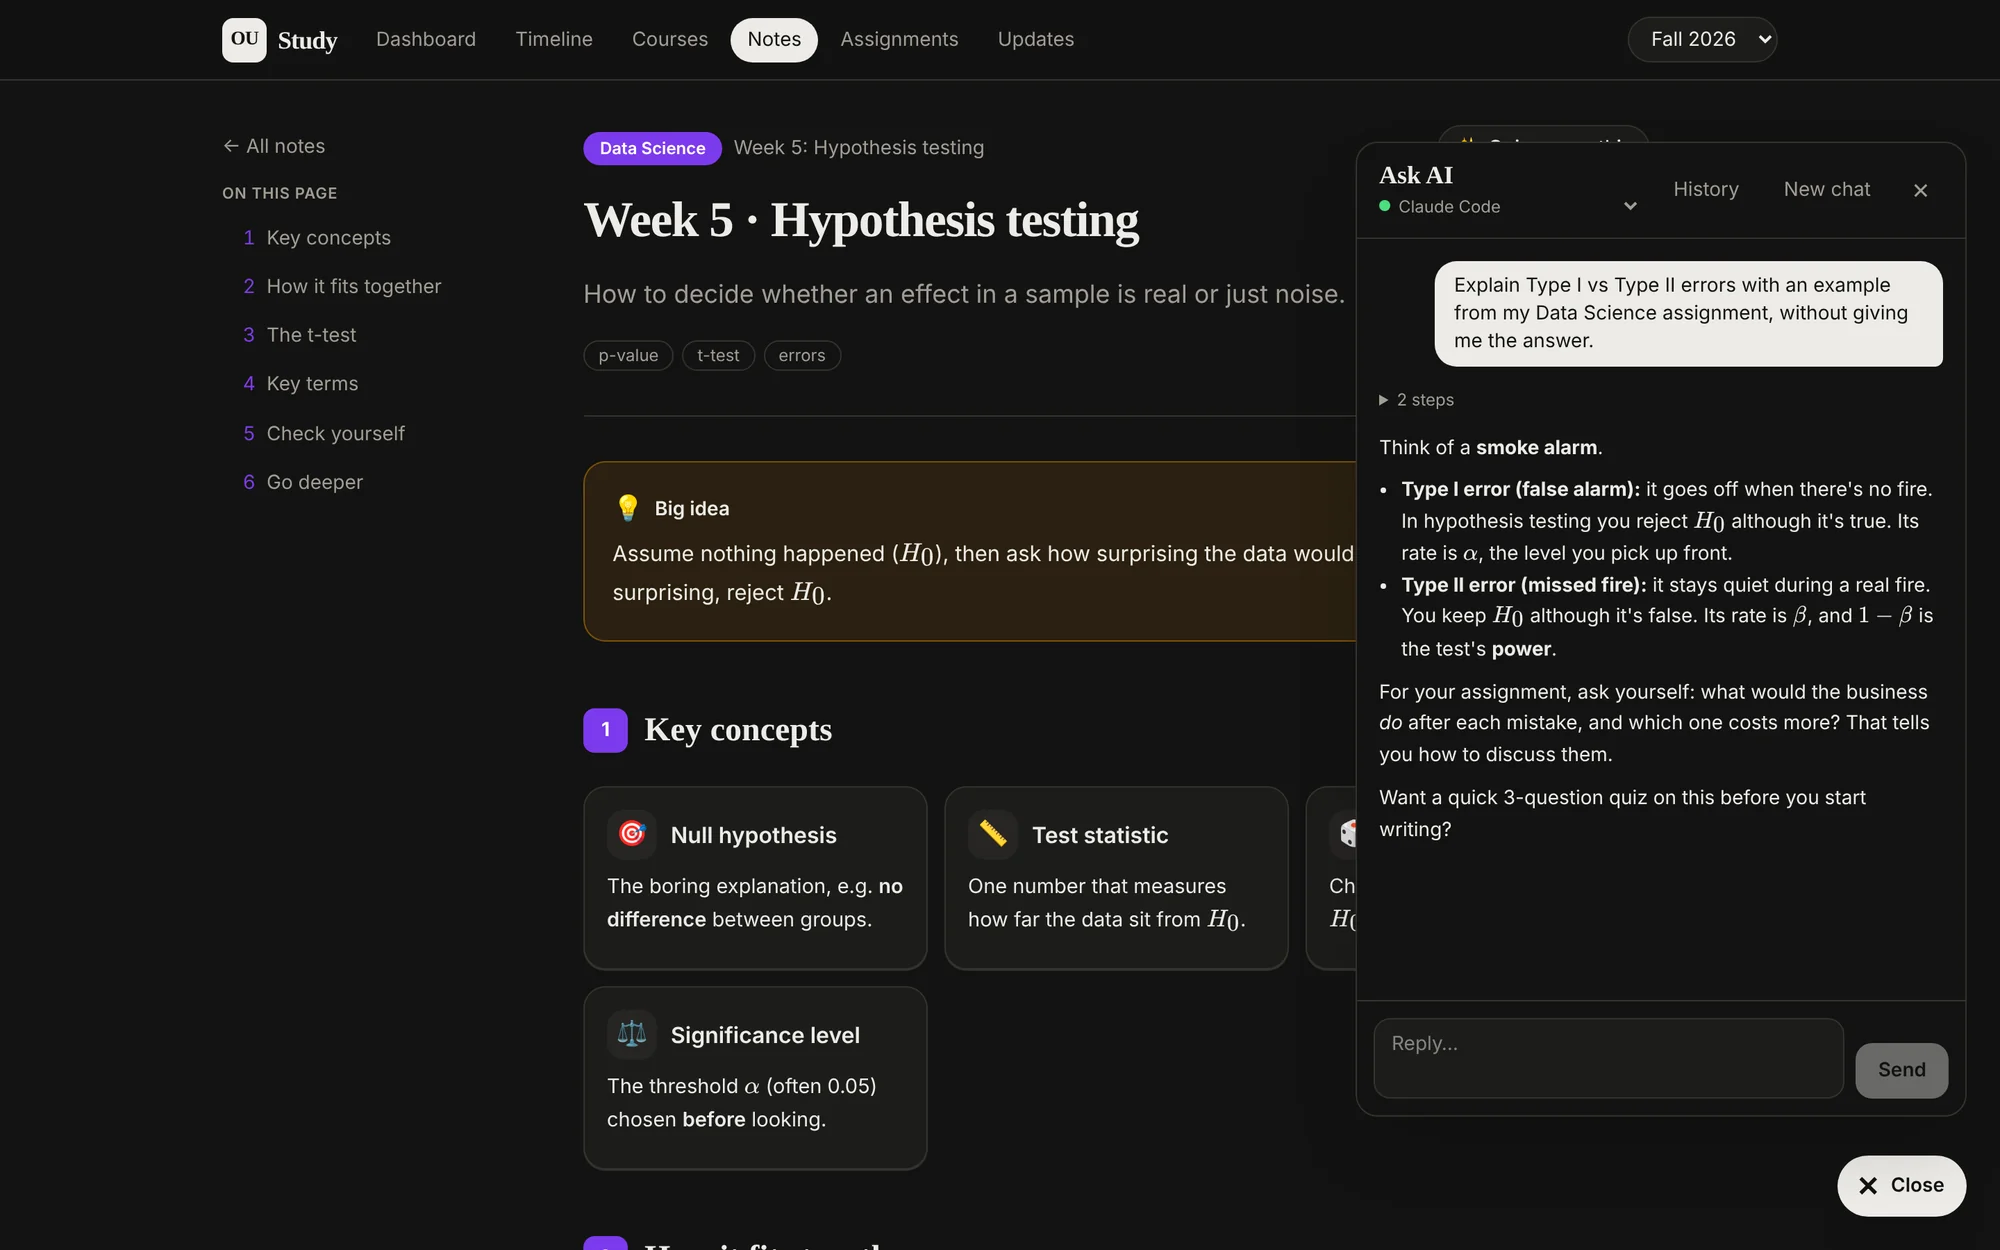
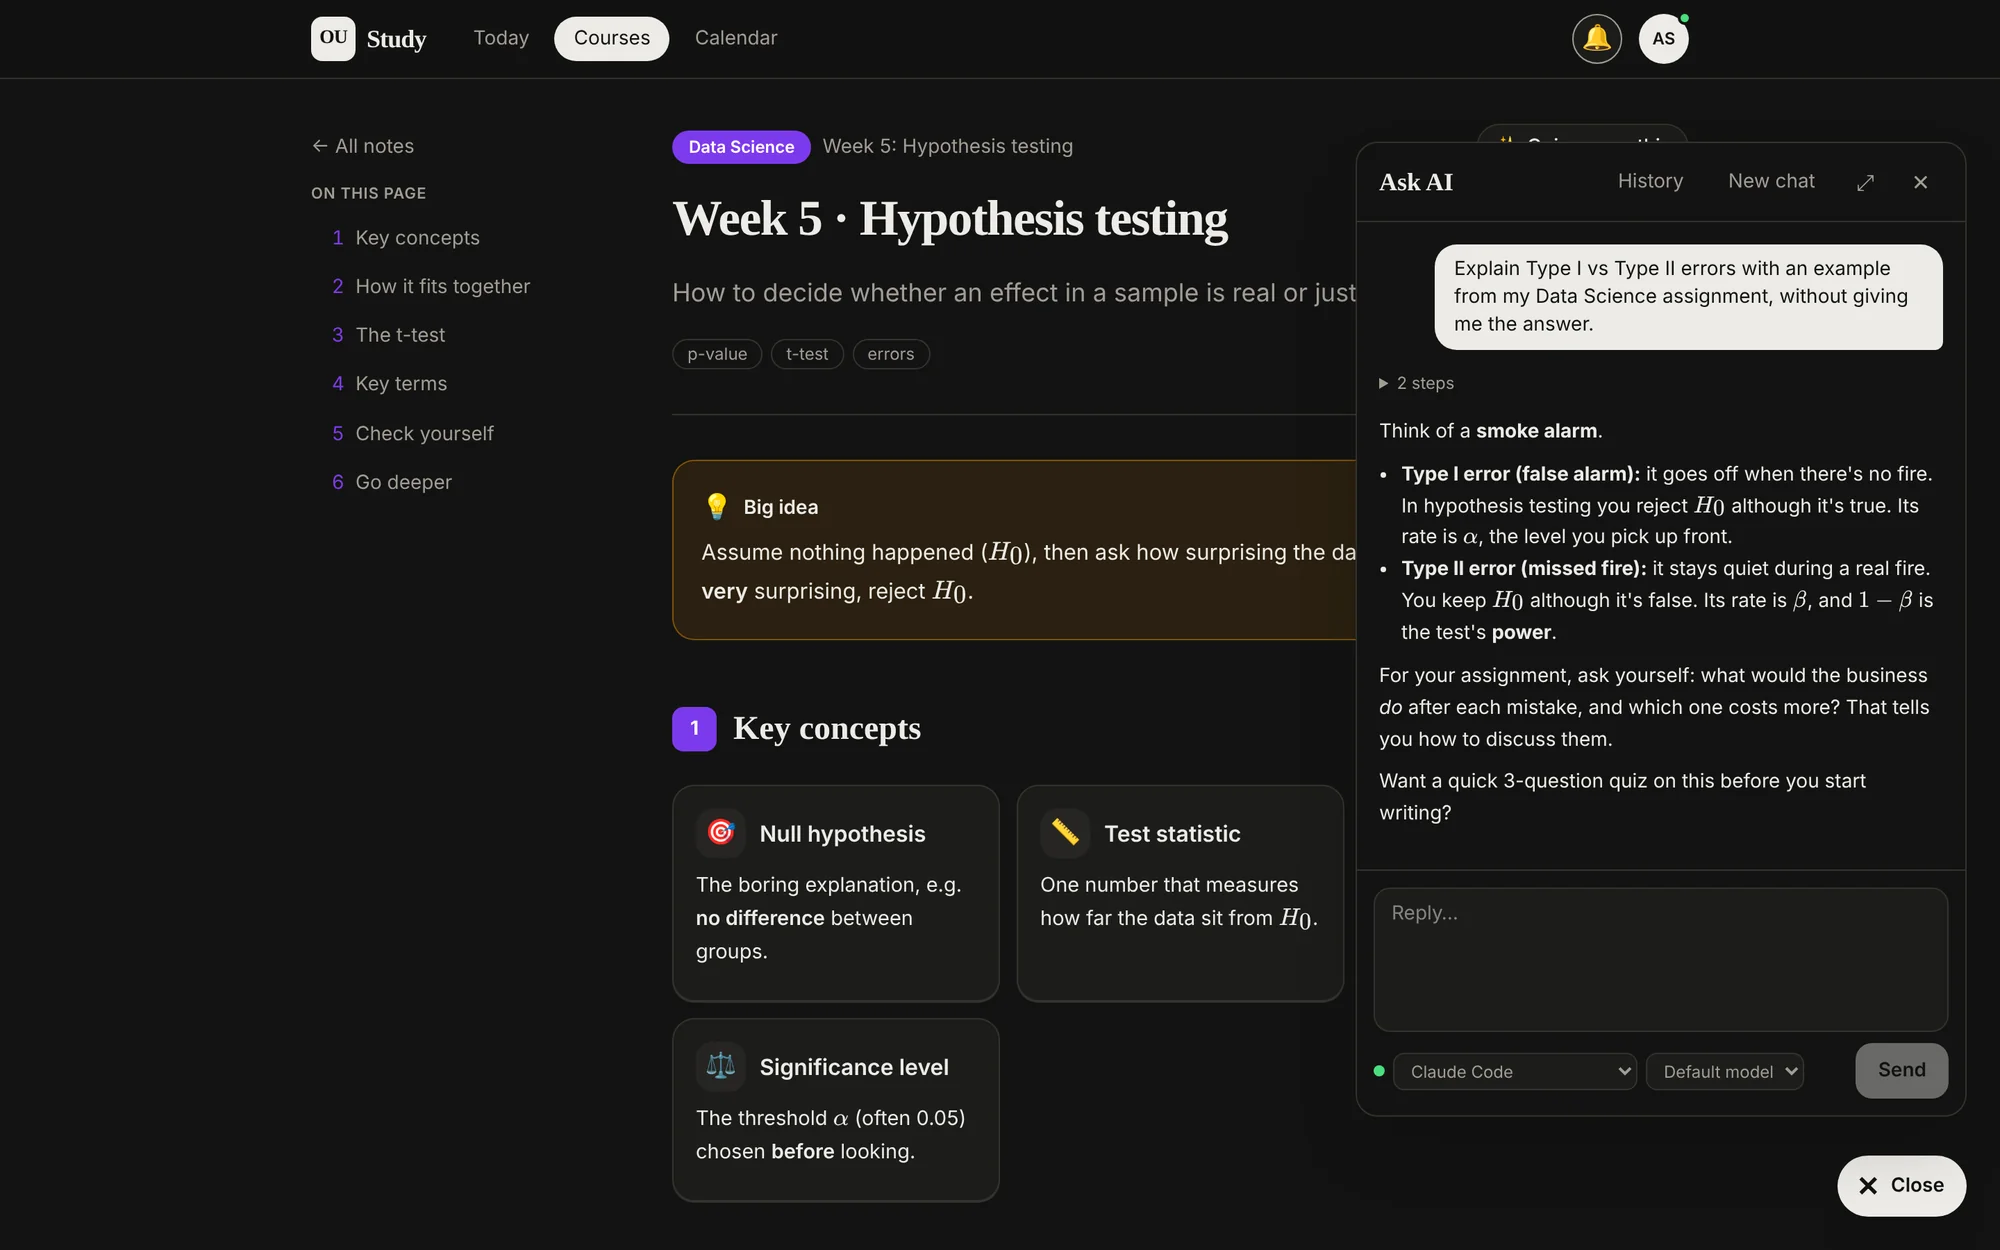
docs: retake the readme screenshots in the new look
Today, Courses, Calendar, the notifications bell, Settings and Ask AI
(pop-up and full page), from a made-up demo semester. The Pages list
now describes the new top bar.

Claude-Session: https://claude.ai/code/session_01YMhC2TwSPBTKRCyyGjE4N2

diff --git a/README.md b/README.md
@@ -5,8 +5,8 @@ Your Open University of Cyprus **eClass courses offline**, in a visual study app
 Built by students for students. Works with **your own** eClass account: nothing is shared between users.
 
 <picture>
-  <source media="(prefers-color-scheme: dark)" srcset="docs/images/dashboard-dark.webp">
-  <img src="docs/images/dashboard.webp" alt="The OUC Study dashboard: next deadline with a countdown, final exams and what's new on eClass">
+  <source media="(prefers-color-scheme: dark)" srcset="docs/images/today-dark.webp">
+  <img src="docs/images/today.webp" alt="The Today page: greeting, next deadline, the next 7 days and what's new on eClass">
 </picture>
 
 <sub>Screenshots use a made-up demo semester. They follow your light or dark theme.</sub>
@@ -19,20 +19,20 @@ Built by students for students. Works with **your own** eClass account: nothing 
 
 <picture>
   <source media="(prefers-color-scheme: dark)" srcset="docs/images/course-dark.webp">
-  <img src="docs/images/course.webp" alt="A course page listing each week's materials, upcoming assignments and grades">
+  <img src="docs/images/course.webp" alt="A course page listing each week's materials, with this week open">
 </picture>
 
-**Every course, week by week**<br>Slides, recordings, readings and your notes for each week, with upcoming work and grades on the side.
+**Every course, week by week**<br>Slides, recordings, readings, notes and quizzes for each week, with buttons to make notes or a quiz.
 
 </td>
 <td width="50%" valign="top">
 
 <picture>
-  <source media="(prefers-color-scheme: dark)" srcset="docs/images/timeline-dark.webp">
-  <img src="docs/images/timeline.webp" alt="The timeline page with the semester bar and deadlines grouped by week">
+  <source media="(prefers-color-scheme: dark)" srcset="docs/images/calendar-dark.webp">
+  <img src="docs/images/calendar.webp" alt="The calendar page with deadlines grouped by week">
 </picture>
 
-**The whole semester at a glance**<br>Every deadline and final exam on one line, then week by week with a filter per course.
+**Calendar**<br>Every deadline, live class and exam, week by week, with filters per course and type.
 
 </td>
 </tr>
@@ -44,7 +44,7 @@ Built by students for students. Works with **your own** eClass account: nothing 
   <img src="docs/images/note.webp" alt="A visual note with a big-idea callout and concept cards">
 </picture>
 
-**Visual notes**<br>Notes your AI writes from the slides: big idea, concept cards, diagrams, formulas and flashcards.
+**Visual notes**<br>Notes your AI writes from the slides and class videos: big idea, concept cards, diagrams, formulas and flashcards.
 
 </td>
 <td width="50%" valign="top">
@@ -63,7 +63,7 @@ Built by students for students. Works with **your own** eClass account: nothing 
 
 <picture>
   <source media="(prefers-color-scheme: dark)" srcset="docs/images/ask-ai-dark.webp">
-  <img src="docs/images/ask-ai.webp" alt="The Ask AI panel answering a question next to a note">
+  <img src="docs/images/ask-ai.webp" alt="The Ask AI pop-up answering a question next to a note">
 </picture>
 
 **Ask AI, on any page**<br>Chat with Claude Code, Codex or a local model about what you're looking at. It knows your courses and notes.
@@ -72,11 +72,33 @@ Built by students for students. Works with **your own** eClass account: nothing 
 <td width="50%" valign="top">
 
 <picture>
-  <source media="(prefers-color-scheme: dark)" srcset="docs/images/updates-dark.webp">
-  <img src="docs/images/updates.webp" alt="The daily updates page grouped by day">
+  <source media="(prefers-color-scheme: dark)" srcset="docs/images/chat-dark.webp">
+  <img src="docs/images/chat.webp" alt="The Ask AI chat as a full page with the history list">
 </picture>
 
-**What changed on eClass**<br>New grades, feedback, files, moved deadlines and announcements, checked every day.
+**Or as a full page**<br>Longer conversations get the whole screen, with your chat history on the side and the AI and model next to Send.
+
+</td>
+</tr>
+<tr>
+<td width="50%" valign="top">
+
+<picture>
+  <source media="(prefers-color-scheme: dark)" srcset="docs/images/notifications-dark.webp">
+  <img src="docs/images/notifications.webp" alt="The notifications drop-down under the bell">
+</picture>
+
+**What's new on eClass**<br>The 🔔 bell lists new grades, feedback, files, moved deadlines and announcements, with Sync now.
+
+</td>
+<td width="50%" valign="top">
+
+<picture>
+  <source media="(prefers-color-scheme: dark)" srcset="docs/images/settings-dark.webp">
+  <img src="docs/images/settings.webp" alt="The settings page with eClass, AI tools and appearance sections">
+</picture>
+
+**Settings**<br>The eClass connection, your AI tools, video transcripts and the colour theme, from the profile circle.
 
 </td>
 </tr>
@@ -134,16 +156,19 @@ How it runs in the background: on macOS two LaunchAgents (`~/Library/LaunchAgent
 
 ## Pages
 
-- **Dashboard**: next deadline with a countdown, the final exams, the next live class of each course, what's new on eClass, the next 14 days, and progress per course.
-- **Timeline**: the semester at a glance, then week by week (deadlines, live classes, exams), with filters per course.
-- **Courses**: each course week by week (slides, videos, assignments, your notes, the week's live class) plus your grades.
+The top bar has **Today**, **Courses** and **Calendar**, plus the 🔔 bell (notifications) and the profile circle (Settings) on the right.
+
+- **Today**: next deadline, the first final exam, the next 7 days (deadlines and live classes), and what's new on eClass.
+- **Courses**: each course with its weeks (slides, videos, assignments, your notes, the week's live class), notes, quizzes and assignments, plus your grades.
+- **Calendar**: deadlines, live classes and exams week by week, with filters per course and type, and your submitted work.
 - **Slides**: click a PowerPoint on a course week and it opens right in the app, slide by slide (arrow keys, full screen), with no download. Slides with recorded narration have a 🔊 player under them; tick **Play as a lecture** to hear each slide and move on by itself. The app makes a PDF copy the first time you open a deck (a few seconds; kept in `.ouc/slides/`) using [LibreOffice](https://www.libreoffice.org/download/) (free; `ouc setup` offers to install it, or on a Mac `brew install --cask libreoffice`, on Windows `winget install TheDocumentFoundation.LibreOffice`). Animations and videos inside the slides don't play there: use **Download** for those.
 - **Notes**: visual notes with diagrams, LaTeX formulas, comparison tables and flip-card self-tests.
 - **Class videos and transcripts**: videos posted on eClass (for example on a week's page) download with the other course files and play in the app. Each one, and each PowerPoint with recorded narration, gets a transcript next to it (`Lecture 3.transcript.md`, a **Transcript** link on the course week), and your AI makes that week's notes from it. Transcripts are optional and made on your computer with [Whisper](https://github.com/ggml-org/whisper.cpp), free and offline. Without Whisper the videos still download, and nothing is transcribed. `ouc setup` asks whether to install it, and **Settings → Video transcripts** in the app (the profile circle, top right) can set it up later (**Set up Whisper**) or turn transcripts off (on a Mac `brew install whisper-cpp ffmpeg` plus a speech model of about 500 MB; on Windows Python from winget if you don't have it, then `pip install faster-whisper`, whose model downloads on the first transcript; on Linux `pip install faster-whisper`), or in Terminal run `ouc transcribe --setup`. The app transcribes one file at a time in the background; **Sync now** does the weeks about to get notes first. The activity bar under the header shows what's running (sync steps and downloads, transcripts, AI notes); **Details** opens each part. Recordings on Panopto (video.ouc.ac.cy) need a Panopto sign-in, so they stay links; their captions are saved as the transcript when Panopto shares them publicly. Webconference recordings aren't reachable with the eClass key. To turn things off, put `{ "videos": false }` (no video downloads) or `{ "transcribe": false }` in `.ouc/media.json`; `"model": "base"` is faster, `"medium"` more accurate (default `"small"`).
 - **Quizzes**: scored quizzes your AI makes on the topics of the course material (the questions can go wider than the slides), for one lecture or the whole course: true/false, one answer, or select all that apply (including "All of the above"). After each answer you get a full explanation of why it is right, then your score at the end. Points (10 per right answer, 20 more for a perfect score), your best score per quiz and a daily streak 🔥 are kept on your computer in `semesters/<id>/quizzes/attempts.json`. **Make a quiz** (on the Quizzes page, a course page or a course week) opens a small pop-up: pick one class, **Every class** (one quiz for each class that doesn't have one yet, a few at a time) or the whole course, and your AI makes them in the background without opening the chat. **Sync now** also makes a quiz for every new class with material (add `"autoQuiz": false` to `.ouc/ai.json` to turn that off). Each quiz has **Reset progress** (start it over) and **Remove**; **Reset all progress** clears every score. The format is in [`docs/QUIZ_FORMAT.md`](docs/QUIZ_FORMAT.md).
 - **Assignments**: the question, files, PDF preview, study links, grade and feedback.
-- **Updates**: what changed on eClass each day, with a live 🟢 connection status, **Re-check** and **Sync now**.
-- **Ask AI** (button in the top bar, on every page): talk to your AI assistant from the app. See [Ask AI in the app](#ask-ai-in-the-app).
+- **Notifications** (🔔): what changed on eClass each day, with **Sync now**. See [Daily updates](#daily-updates).
+- **Settings** (profile circle): eClass connection, AI tools, video transcripts, colour theme, and **Back to the classic look** if you prefer the older layout.
+- **Ask AI** (the 🤖 button at the bottom right, on every page): talk to your AI assistant from the app. See [Ask AI in the app](#ask-ai-in-the-app).
 
 ### Live classes
 
@@ -209,14 +234,14 @@ The assistant helps you understand, plan and review. It won't write answers for 
 
 ### Ask AI in the app
 
-Press **✨ Ask AI** in the top bar. Pick an action (Make notes, Quiz me, Make a quiz, Plan my week, Research a topic, Find material, Assignment help, Sync eClass) or just type a question. The app runs the AI you chose with `ouc ai setup` on your own computer, with your own login, and shows its reply as it works. Notes and plans it writes appear as links, and new notes show up in the app straight away. Shortcuts open the panel with the right action filled in: **Plan my week** on the dashboard, **Make notes** and **Quiz me** on a course week, **Quiz me on this** on a note, **Help me with this** on an assignment. For a longer conversation, press **⤢** in the panel's header: the chat opens as a full page with your past chats on the side (bookmark it or open it in a new tab), and **⤡ Pop-up** puts it back. **History** lists your saved chats: delete one with 🗑 or all of them with **Delete all chats**, and on the full page **Hide history** folds the list away (the app remembers). When the AI explains a flow or a process, it draws a diagram (Mermaid) right in the chat. Next to **Send** you pick which AI answers and its model: Claude Code offers `sonnet`, `opus` and `haiku`, Codex the models your installed Codex lists for your ChatGPT plan (read from Codex itself, so new ones show up when you update it) (both on your subscription, never API credits), and opencode or a local model the models your Ollama or LM Studio has. The model you pick is remembered as that AI's default; **Default** leaves the choice to the tool. To change the Claude or Codex list, add for example `"models": { "codex": ["gpt-5"] }` to `.ouc/ai.json`.
+Press **🤖 Ask AI** at the bottom right of any page. Pick an action (Make notes, Quiz me, Make a quiz, Plan my week, Research a topic, Find material, Assignment help, Sync eClass) or just type a question. The app runs the AI you chose with `ouc ai setup` on your own computer, with your own login, and shows its reply as it works. Notes and plans it writes appear as links, and new notes show up in the app straight away. Shortcuts open the panel with the right action filled in: **Plan my week** on Today, **Make notes** and **Quiz me** on a course week, **Quiz me on this** on a note, **Help me with this** on an assignment. For a longer conversation, press **⤢** in the panel's header: the chat opens as a full page with your past chats on the side (bookmark it or open it in a new tab), and **⤡ Pop-up** puts it back. **History** lists your saved chats: delete one with 🗑 or all of them with **Delete all chats**, and on the full page **Hide history** folds the list away (the app remembers). When the AI explains a flow or a process, it draws a diagram (Mermaid) right in the chat. Next to **Send** you pick which AI answers and its model: Claude Code offers `sonnet`, `opus` and `haiku`, Codex the models your installed Codex lists for your ChatGPT plan (read from Codex itself, so new ones show up when you update it) (both on your subscription, never API credits), and opencode or a local model the models your Ollama or LM Studio has. The model you pick is remembered as that AI's default; **Default** leaves the choice to the tool. To change the Claude or Codex list, add for example `"models": { "codex": ["gpt-5"] }` to `.ouc/ai.json`.
 
 - Every skill in `ai/skills/` becomes an action automatically.
 - The AI edits files in this folder without asking each time (like `ouc notes`), with the same limits as the command line. Claude Code and opencode are blocked from reading your eClass key, and every AI is told never to touch it.
 - With "a local model directly" you can chat, quiz and make quizzes (the app gives it the material and saves the quiz it answers with); the other actions need Claude Code, Codex or opencode.
 - **Prep packs:** every assignment you haven't submitted (including ones not open yet) gets a `PREP.md` in its folder (what it asks, key ideas, hints, course material, extra reading, a plan), shown on the assignment page. The app makes them on its own when it starts and after each sync. On the assignment page you can ask another AI to **Review & improve** it, **Add more**, or **Start over**. To turn the automatic part off, add `"autoPrep": false` to `.ouc/ai.json`.
 - **Review before submitting:** on the assignment page, upload your solution as a Word `.docx`. Your AI reviews it against the brief, the marking criteria, that week's material and your notes, and says what to fix and why (it never rewrites your answers). Discuss it in Ask AI, upload the fixed version for another round (every round is kept), and when you're happy press **Approve**: your `.docx` becomes a PDF, unchanged, ready to upload on eClass. Making the PDF uses [LibreOffice](https://www.libreoffice.org/download/) (free; on a Mac `brew install --cask libreoffice`). Your drafts stay in the assignment's `review/` folder, never shared.
-- **Sync now** (Updates page) also downloads new course files, then has your AI make every missing note (all weeks with files, started or not) and prep pack. A bar under the top menu shows the progress; click a running item to watch it. Up to 3 run at once; set `"parallel": 5` (1–8) in `.ouc/ai.json` to change that.
+- **Sync now** (under the 🔔 bell, on Notifications or in Settings) also downloads new course files, then has your AI make every missing note (all weeks with files, started or not) and prep pack. A bar under the top menu shows the progress; click a running item to watch it. Up to 3 run at once; set `"parallel": 5` (1–8) in `.ouc/ai.json` to change that.
 - Chats are saved on your computer in `.ouc/chats/` (never committed). **History** in the panel reopens them.
 - It only works in the app running on your computer (`ouc open` or `npm run dev`), and only pages from that app can use it.
 
